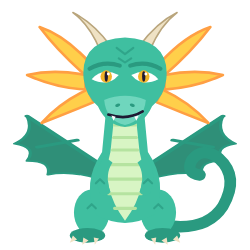
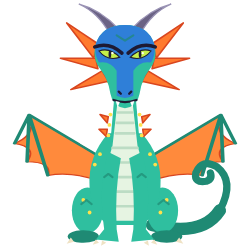
Redraw Glory front-facing in the book style
Long neck, narrow wedge head with a blue face, stern slanted eyes under heavy
brows, swept-back horns, orange ruff and wings, yellow speckles. Venom and grin
anchors follow the new mouth.

diff --git a/prototype/themes/dragon.js b/prototype/themes/dragon.js
@@ -5,8 +5,15 @@
 
   const sparkle = 'M0-11Q2-2 11 0Q2 2 0 11Q-2 2-11 0Q-2-2 0-11Z';
 
-  // Drawn in the style of the graphic novels rather than as a baby dragon: horned head on a
-  // neck, narrow slit-pupil eyes under brow ridges, pointed ruff, long prehensile tail.
+  // Drawn after the book art rather than as a baby dragon, facing us: long neck, wedge head
+  // with a blue face, stern slanted eyes under heavy brows, swept-back horns, orange ruff and
+  // wings, yellow speckles, and a curled prehensile tail.
+  const spots = [
+    [100, 68], [104, 78], [140, 68], [136, 78], [106, 110], [105, 120], [104, 130], [134, 110],
+    [135, 120], [136, 130], [96, 148], [91, 158], [144, 148], [149, 158], [80, 192], [86, 204],
+    [160, 192], [154, 204],
+  ].map(([x, y]) => `<circle cx="${x}" cy="${y}" r="1.8"/>`).join('');
+
   const character = `
 <svg viewBox="0 0 240 240" aria-label="Glory">
   <g class="sparkles">
@@ -18,100 +25,108 @@
 
   <g class="body-all">
     <g class="wings-folded">
-      <path class="wing" d="M100 146 L66 92 Q60 124 50 150 Q60 176 84 190 L102 172 Z"/>
-      <path class="wing" d="M140 146 L174 92 Q180 124 190 150 Q180 176 156 190 L138 172 Z"/>
-      <path class="wing-bone" d="M100 146 L66 92 M140 146 L174 92"/>
+      <path class="membrane" d="M106 138 L70 90 Q62 124 50 150 Q58 176 82 194 L100 176 Z"/>
+      <path class="membrane" d="M134 138 L170 90 Q178 124 190 150 Q182 176 158 194 L140 176 Z"/>
+      <path class="wing-bone" d="M106 138 L70 90 L50 150 M70 90 L82 194 M134 138 L170 90 L190 150 M170 90 L158 194"/>
     </g>
     <g class="wings-open">
-      <path class="wing" d="M98 148 L26 62 Q34 94 14 110 Q36 116 26 140 Q50 140 46 164 Q68 156 96 172 Z"/>
-      <path class="wing" d="M142 148 L214 62 Q206 94 226 110 Q204 116 214 140 Q190 140 194 164 Q172 156 144 172 Z"/>
-      <path class="wing-bone" d="M98 148 L26 62 M142 148 L214 62 M74 104 L36 116 M166 104 L204 116"/>
+      <path class="membrane" d="M104 140 L28 58 Q36 92 14 108 Q36 114 26 140 Q50 140 46 164 Q68 156 96 174 Z"/>
+      <path class="membrane" d="M136 140 L212 58 Q204 92 226 108 Q204 114 214 140 Q190 140 194 164 Q172 156 144 174 Z"/>
+      <path class="wing-bone" d="M104 140 L28 58 M28 58 L14 108 M28 58 L26 140 M28 58 L46 164
+        M136 140 L212 58 M212 58 L226 108 M212 58 L214 140 M212 58 L194 164"/>
     </g>
 
-    <path class="tail" d="M146 214 Q196 226 214 198 Q230 170 210 152 Q194 140 184 154 Q178 166 192 168"/>
+    <path class="tail" d="M146 216 Q194 228 211 202"/>
+    <path class="tail tip" d="M211 202 Q226 174 208 160 Q194 152 188 166 Q186 176 198 174 Q204 172 202 166"/>
 
-    <ellipse class="scale" cx="88" cy="204" rx="17" ry="22"/>
-    <ellipse class="scale" cx="152" cy="204" rx="17" ry="22"/>
-    <path class="scale" d="M102 104 L98 146 Q78 176 92 206 Q120 222 148 206 Q162 176 142 146 L138 104 Z"/>
-    <path class="belly" d="M110 108 Q120 112 130 108 L134 146 Q144 180 120 212 Q96 180 106 146 Z"/>
-    <path class="belly-lines" d="M110 120 H130 M109 132 H131 M108 144 H132 M104 158 H136 M102 172 H138 M104 186 H136 M110 200 H130"/>
-    <ellipse class="scale-dark" cx="84" cy="226" rx="17" ry="7"/>
-    <ellipse class="scale-dark" cx="156" cy="226" rx="17" ry="7"/>
+    <ellipse class="scale" cx="84" cy="202" rx="15" ry="22"/>
+    <ellipse class="scale" cx="156" cy="202" rx="15" ry="22"/>
+    <ellipse class="scale-dark" cx="80" cy="227" rx="15" ry="6"/>
+    <ellipse class="scale-dark" cx="160" cy="227" rx="15" ry="6"/>
+    <path class="scale" d="M104 128 Q84 150 86 180 Q88 206 104 216 L136 216 Q152 206 154 180 Q156 150 136 128 Z"/>
+    <path class="scale" d="M110 90 L106 136 L134 136 L130 90 Z"/>
+    <path class="belly" d="M113 96 L127 96 L132 140 Q144 176 131 212 L109 212 Q96 176 108 140 Z"/>
+    <path class="belly-lines" d="M113 108 H127 M112 118 H128 M111 128 H129 M108 142 H132 M105 156 H135 M104 170 H136 M104 184 H136 M106 198 H134"/>
+    <g class="spikes">
+      <path d="M104 112 l-8 -2 l7 8 Z M103 124 l-8 0 l7 7 Z M136 112 l8 -2 l-7 8 Z M137 124 l8 0 l-7 7 Z"/>
+    </g>
+    <g class="spots">${spots}</g>
+
+    <path class="scale arm" d="M104 146 Q94 178 100 220 L92 230 L114 232 L112 220 Q110 182 116 152 Z"/>
+    <path class="scale arm arm-r" d="M136 146 Q146 178 140 220 L148 230 L126 232 L128 220 Q130 182 124 152 Z"/>
+    <path class="texture" d="M100 170 l4 -3 l4 3 M140 170 l-4 -3 l-4 3 M78 196 l5 -4 l5 4 M162 196 l-5 -4 l-5 4"/>
     <g class="claws">
-      <path d="M70 226 l-3 7 l7 -3Z M80 228 l-1 7 l6 -4Z M90 228 l1 7 l4 -6Z"/>
-      <path d="M170 226 l3 7 l-7 -3Z M160 228 l1 7 l-6 -4Z M150 228 l-1 7 l-4 -6Z"/>
+      <path d="M68 228 l-4 6 l7 -2 Z M92 230 l-3 5 l6 -2 Z M98 231 l-1 5 l5 -3 Z"/>
+      <path d="M172 228 l4 6 l-7 -2 Z"/>
+      <path class="arm-r" d="M148 230 l3 5 l-6 -2 Z M142 231 l1 5 l-5 -3 Z"/>
     </g>
-    <path class="scale arm" d="M100 150 Q88 166 96 186 Q102 190 106 184 Q100 168 108 156 Z"/>
-    <path class="scale arm arm-r" d="M140 150 Q152 166 144 186 Q138 190 134 184 Q140 168 132 156 Z"/>
-    <path class="texture" d="M92 176 l4 -4 l4 4 M146 176 l-4 -4 l-4 4 M84 200 l4 -4 l4 4 M156 200 l-4 -4 l-4 4"/>
 
     <g class="frills">
-      <path d="M86 60 Q62 34 38 26 Q56 50 84 74 Z"/>
-      <path d="M82 72 Q52 66 26 72 Q52 84 82 86 Z"/>
-      <path d="M84 86 Q58 98 40 118 Q66 108 90 98 Z"/>
-      <path d="M154 60 Q178 34 202 26 Q184 50 156 74 Z"/>
-      <path d="M158 72 Q188 66 214 72 Q188 84 158 86 Z"/>
-      <path d="M156 86 Q182 98 200 118 Q174 108 150 98 Z"/>
+      <path d="M94 42 L64 22 L90 56 Z"/>
+      <path d="M92 56 L58 56 L94 66 Z"/>
+      <path d="M98 68 L68 86 L104 78 Z"/>
+      <path d="M146 42 L176 22 L150 56 Z"/>
+      <path d="M148 56 L182 56 L146 66 Z"/>
+      <path d="M142 68 L172 86 L136 78 Z"/>
     </g>
     <g class="horns">
-      <path d="M96 48 Q86 24 70 12 Q90 22 106 44 Z"/>
-      <path d="M144 48 Q154 24 170 12 Q150 22 134 44 Z"/>
+      <path d="M105 32 Q94 12 76 4 Q96 9 114 28 Z"/>
+      <path d="M135 32 Q146 12 164 4 Q144 9 126 28 Z"/>
     </g>
 
-    <path class="scale" d="M80 70 Q80 38 120 36 Q160 38 160 70 Q160 90 146 102 Q138 120 120 122 Q102 120 94 102 Q80 90 80 70 Z"/>
-    <path class="snout" d="M100 96 Q120 88 140 96 Q138 116 120 120 Q102 116 100 96 Z"/>
-    <path class="texture" d="M112 46 l8 6 l8 -6 M114 56 l6 4 l6 -4"/>
-    <ellipse class="scale-dark" cx="113" cy="101" rx="2.5" ry="1.5" transform="rotate(-20 113 101)"/>
-    <ellipse class="scale-dark" cx="127" cy="101" rx="2.5" ry="1.5" transform="rotate(20 127 101)"/>
+    <path class="scale" d="M120 24 Q142 24 148 42 Q152 56 144 66 Q136 76 134 90 Q132 102 120 104 Q108 102 106 90 Q104 76 96 66 Q88 56 92 42 Q98 24 120 24 Z"/>
+    <path class="face" d="M120 24 Q142 24 148 42 Q150 52 145 60 Q134 58 128 68 L128 92 Q120 96 112 92 L112 68 Q106 58 95 60 Q90 52 92 42 Q98 24 120 24 Z"/>
+    <path class="texture" d="M112 34 l8 5 l8 -5"/>
+    <path class="line thin" d="M114 88 l2 2 M126 88 l-2 2"/>
 
     <g class="eyes-open">
-      <path class="eye-white" d="M88 76 Q98 64 114 72 Q104 84 88 76 Z"/>
-      <path class="eye-white" d="M152 76 Q142 64 126 72 Q136 84 152 76 Z"/>
-      <ellipse class="iris" cx="102" cy="73.5" rx="5.5" ry="6"/>
-      <ellipse class="iris" cx="138" cy="73.5" rx="5.5" ry="6"/>
-      <ellipse class="pupil" cx="102" cy="73.5" rx="1.6" ry="5"/>
-      <ellipse class="pupil" cx="138" cy="73.5" rx="1.6" ry="5"/>
-      <circle class="glint" cx="104" cy="71" r="1.4"/>
-      <circle class="glint" cx="140" cy="71" r="1.4"/>
+      <path class="iris" d="M95 49 Q105 45 115 55 Q103 59 95 49 Z"/>
+      <path class="iris" d="M145 49 Q135 45 125 55 Q137 59 145 49 Z"/>
+      <ellipse class="pupil" cx="105.5" cy="52" rx="1.3" ry="3.6"/>
+      <ellipse class="pupil" cx="134.5" cy="52" rx="1.3" ry="3.6"/>
+      <circle class="glint" cx="108" cy="51" r="1.1"/>
+      <circle class="glint" cx="137" cy="51" r="1.1"/>
     </g>
-    <g class="eyes-closed line">
-      <path d="M88 76 Q100 80 114 74"/>
-      <path d="M152 76 Q140 80 126 74"/>
+    <g class="eyes-closed line thin">
+      <path d="M95 50 Q105 56 115 55"/>
+      <path d="M145 50 Q135 56 125 55"/>
     </g>
-    <g class="eyes-happy line">
-      <path d="M88 78 Q100 68 114 76"/>
-      <path d="M152 78 Q140 68 126 76"/>
+    <g class="eyes-happy line thin">
+      <path d="M95 52 Q105 46 115 54"/>
+      <path d="M145 52 Q135 46 125 54"/>
     </g>
-    <path class="brow" d="M86 66 Q100 58 115 63 M154 66 Q140 58 125 63"/>
+    <path class="brow" d="M91 45 Q105 40 117 51 M149 45 Q135 40 123 51"/>
 
     <g class="mouth">
-      <path class="line thin" d="M104 110 Q122 116 137 107"/>
-      <path class="fang" d="M107 111 l2 5 l2 -4 Z"/>
-      <path class="fang" d="M129 112 l2 4 l2 -5 Z"/>
+      <path class="line thin" d="M109 96 Q120 100 131 96"/>
+      <path class="fang" d="M111 97 l2 6 l2 -5 Z"/>
+      <path class="fang" d="M125 98 l2 5 l2 -6 Z"/>
     </g>
     <g class="mouth-grin">
-      <path class="mouth-inside" d="M100 106 Q120 124 140 106 Q120 112 100 106 Z"/>
-      <path class="fang" d="M103 107 Q120 112 137 107 L135 111 Q120 116 105 111 Z"/>
+      <path class="mouth-inside" d="M106 93 Q120 110 134 93 Q120 99 106 93 Z"/>
+      <path class="fang" d="M108 94 Q120 99 132 94 L130 98 Q120 103 110 98 Z"/>
     </g>
     <g class="mouth-spit">
-      <ellipse class="mouth-inside" cx="120" cy="112" rx="9" ry="7"/>
-      <path class="fang" d="M113 106 l2 6 l2 -5 Z"/>
-      <path class="fang" d="M123 107 l2 5 l2 -6 Z"/>
-      <circle cx="120" cy="114" r="3.5" fill="#1b1426" stroke="#5dd94a" stroke-width="1.5"/>
+      <ellipse class="mouth-inside" cx="120" cy="99" rx="9" ry="7"/>
+      <path class="fang" d="M113 93 l2 6 l2 -5 Z"/>
+      <path class="fang" d="M123 94 l2 5 l2 -6 Z"/>
+      <circle cx="120" cy="101" r="3.5" fill="#1b1426" stroke="#5dd94a" stroke-width="1.5"/>
     </g>
 
     <g class="foam">
-      <circle cx="102" cy="118" r="4"/>
-      <circle cx="95"  cy="112" r="3"/>
-      <circle cx="108" cy="124" r="2.5"/>
-      <circle cx="140" cy="119" r="3.5"/>
+      <circle cx="104" cy="102" r="4"/>
+      <circle cx="98" cy="95" r="3"/>
+      <circle cx="110" cy="108" r="2.5"/>
+      <circle cx="137" cy="103" r="3.5"/>
     </g>
     <g class="brush">
-      <path class="arm-brush" d="M138 154 Q170 150 182 118"/>
-      <rect class="brush-handle" x="126" y="106" width="60" height="8" rx="4"/>
-      <rect class="brush-head" x="110" y="103" width="22" height="13" rx="4"/>
-      <rect class="bristles" x="112" y="97" width="18" height="7" rx="2"/>
-      <circle class="scale" cx="184" cy="112" r="8"/>
+      <path class="arm-brush-edge" d="M134 152 Q164 140 156 104"/>
+      <path class="arm-brush" d="M134 152 Q164 140 156 104"/>
+      <rect class="brush-handle" x="126" y="93" width="30" height="7" rx="3.5"/>
+      <rect class="brush-head" x="106" y="91" width="22" height="11" rx="3.5"/>
+      <rect class="bristles" x="108" y="86" width="18" height="6" rx="2"/>
+      <circle class="hand" cx="156" cy="97" r="7"/>
+      <path class="claws" d="M150 92 l-4 -1 l3 4 Z M149 99 l-4 1 l4 3 Z"/>
     </g>
   </g>
 
@@ -182,16 +197,16 @@
   };
 
   // RainWing rainbow: 5 scale palettes cycled by the "rainbow" trick
-  const RAINBOW = [
-    ['#ff5a6e', '#d93a50', '#ff8a98', '#ffe3e7', '#ffc2ca', '#ffd23f', '#ff9f43', '#c93a4e'],
-    ['#ff9a3c', '#e07a1f', '#ffb870', '#fff0dc', '#ffd9b0', '#ff5a6e', '#ffd23f', '#d0741f'],
-    ['#ffd23f', '#e0b21f', '#ffe27a', '#fffbe0', '#fff0a8', '#3fbfa0', '#ff9a3c', '#d0a81f'],
-    ['#4aa8ff', '#2f86dd', '#86c4ff', '#e3f1ff', '#bcdcff', '#ffd23f', '#a66bff', '#2f78c9'],
-    ['#a66bff', '#844ddd', '#c49bff', '#f0e6ff', '#dcc8ff', '#7ce3ff', '#ff7ac2', '#7a44c9'],
+  const RAINBOW = [ // scale, dark, face, belly, belly line, frill, frill edge, wing membrane
+    ['#ff5a6e', '#d93a50', '#b82a5a', '#ffe3e7', '#ffc2ca', '#ffd23f', '#ff9f43', '#ffb03f'],
+    ['#ff9a3c', '#e07a1f', '#d9462a', '#fff0dc', '#ffd9b0', '#ff5a6e', '#d93a50', '#ffd23f'],
+    ['#ffd23f', '#e0b21f', '#ff8a2e', '#fffbe0', '#fff0a8', '#3fbfa0', '#2a9a80', '#ff9a3c'],
+    ['#4aa8ff', '#2f86dd', '#2f55c8', '#e3f1ff', '#bcdcff', '#ffd23f', '#ff9f43', '#a66bff'],
+    ['#a66bff', '#844ddd', '#5e3cc8', '#f0e6ff', '#dcc8ff', '#7ce3ff', '#3fb0d8', '#ff7ac2'],
   ];
-  const rainbowCss = RAINBOW.map(([sc, dark, snout, belly, line, frill, frill2, wing], i) =>
-    `.theme-dragon .character.rainbow-${i + 1} { --scale: ${sc}; --scale-dark: ${dark}; --snout: ${snout}; --belly: ${belly};
-      --belly-line: ${line}; --frill: ${frill}; --frill-2: ${frill2}; --wing: ${wing}; }`).join('\n');
+  const rainbowCss = RAINBOW.map(([sc, dark, face, belly, line, frill, frill2, membrane], i) =>
+    `.theme-dragon .character.rainbow-${i + 1} { --scale: ${sc}; --scale-dark: ${dark}; --face: ${face}; --belly: ${belly};
+      --belly-line: ${line}; --frill: ${frill}; --frill-2: ${frill2}; --membrane: ${membrane}; --spots: ${belly}; }`).join('\n');
 
   // Treasure gem (dragons love treasure)
   const reward = `<svg viewBox="0 0 24 24">
@@ -220,8 +235,8 @@
     germParticles: BUGS.map((b) => [b.color, '#1b1426', '#5dd94a']), // melted by venom
     pop: 'venom',                // Glory spits venom at each bug (RainWings don't breathe fire)
     tricks: ['rainbow', 'fly'],  // theme-only tricks
-    teeth: [125, 116],           // in the 250x250 buddy box
-    mouth: [125, 118],
+    teeth: [125, 101],           // in the 250x250 buddy box
+    mouth: [125, 104],
     sprites,
     reward,
 
@@ -254,41 +269,45 @@ ${T} .t-bravo {
 
 /* Scale colours by mood (RainWing!) */
 ${T} .character {
-  --scale: #3fbfa0; --scale-dark: #2a9a80; --snout: #6fd6bd; --belly: #d8f5c4; --belly-line: #b5e3a0;
-  --frill: #ffcf4a; --frill-2: #ff9f43; --wing: #2f8f78; --iris: #f0b429; --ink: #1e1a33;
+  --scale: #2fbf9f; --scale-dark: #1f8a74; --face: #2f7fd8; --belly: #e6f4e2; --belly-line: #bcdcc4;
+  --frill: #ff7a2e; --frill-2: #d9461f; --membrane: #ff8a3c; --spots: #ffe14d;
+  --horn: #6b6385; --claw: #efe2c4; --iris: #c6f04a; --ink: #1e1a33;
 }
 ${T} .character.mood-sleepy {
-  --scale: #8a8fe0; --scale-dark: #6c70c4; --snout: #a9adf2; --belly: #e4e2ff; --belly-line: #c9c6f5;
-  --frill: #c3b5ff; --frill-2: #9a8cf0; --wing: #6a6ec0;
+  --scale: #8a8fe0; --scale-dark: #6c70c4; --face: #6a5fc8; --belly: #e4e2ff; --belly-line: #c9c6f5;
+  --frill: #c3b5ff; --frill-2: #9a8cf0; --membrane: #b7a6ff; --spots: #e6e0ff;
 }
 ${T} .character.mood-cheer {
-  --scale: #ff7ac2; --scale-dark: #e0559f; --snout: #ff9fd3; --belly: #ffe3f1; --belly-line: #ffc2df;
-  --frill: #ffe066; --frill-2: #7ce3ff; --wing: #d94d96;
+  --scale: #ff7ac2; --scale-dark: #e0559f; --face: #a65be0; --belly: #ffe3f1; --belly-line: #ffc2df;
+  --frill: #ffe066; --frill-2: #ffb020; --membrane: #ffd23f; --spots: #fff3a0;
 }
 
 ${T} .scale      { fill: var(--scale); }
 ${T} .scale-dark { fill: var(--scale-dark); }
-${T} .snout      { fill: var(--snout); }
+${T} .face       { fill: var(--face); }
 ${T} .belly      { fill: var(--belly); }
-${T} .belly-lines { fill: none; stroke: var(--belly-line); stroke-width: 3; stroke-linecap: round; }
-${T} .tail       { fill: none; stroke: var(--scale-dark); stroke-width: 11; stroke-linecap: round; }
-${T} .wing       { fill: var(--wing); stroke: var(--scale-dark); stroke-width: 3; stroke-linejoin: round; }
-${T} .wing-bone  { fill: none; stroke: var(--scale-dark); stroke-width: 5; stroke-linecap: round; }
-${T} .frills path { fill: var(--frill); stroke: var(--frill-2); stroke-width: 2.5; stroke-linejoin: round; }
-${T} .horns      { fill: #efe2c4; stroke: #b9a57c; stroke-width: 1.5; stroke-linejoin: round; }
+${T} .belly-lines { fill: none; stroke: var(--belly-line); stroke-width: 2.5; stroke-linecap: round; }
+${T} .spots      { fill: var(--spots); }
+${T} .tail       { fill: none; stroke: var(--scale-dark); stroke-width: 12; stroke-linecap: round; }
+${T} .tail.tip   { stroke-width: 7; }
+${T} .membrane   { fill: var(--membrane); stroke: var(--frill-2); stroke-width: 2; stroke-linejoin: round; }
+${T} .wing-bone  { fill: none; stroke: var(--scale-dark); stroke-width: 3.5; stroke-linecap: round; stroke-linejoin: round; }
+${T} .frills path, ${T} .spikes { fill: var(--frill); stroke: var(--frill-2); stroke-width: 1.5; stroke-linejoin: round; }
+${T} .horns      { fill: var(--horn); stroke: #9a93b5; stroke-width: 1.2; stroke-linejoin: round; }
 ${T} .texture    { fill: none; stroke: var(--scale-dark); stroke-width: 2; stroke-linecap: round; stroke-linejoin: round; opacity: .7; }
-${T} .brow       { fill: none; stroke: var(--scale-dark); stroke-width: 4; stroke-linecap: round; }
+${T} .brow       { fill: none; stroke: var(--ink); stroke-width: 3.5; stroke-linecap: round; }
 ${T} .glint      { fill: #fff; }
-${T} .claws      { fill: #efe2c4; }
-${T} .eye-white  { fill: #fff; }
-${T} .iris       { fill: var(--iris); }
+${T} .claws      { fill: var(--claw); }
+${T} .hand       { fill: var(--scale); stroke: var(--scale-dark); stroke-width: 2; }
+${T} .iris       { fill: var(--iris); stroke: var(--ink); stroke-width: 1; }
 ${T} .pupil      { fill: var(--ink); }
 ${T} .line       { fill: none; stroke: var(--ink); stroke-width: 3.5; stroke-linecap: round; }
-${T} .line.thin  { stroke-width: 2.5; }
+${T} .line.thin  { stroke-width: 2.2; }
 ${T} .fang       { fill: #fff; }
 ${T} .mouth-inside { fill: #4a1f3d; }
 ${T} .foam       { fill: #fff; opacity: .9; }
-${T} .arm-brush  { fill: none; stroke: var(--scale); stroke-width: 11; stroke-linecap: round; }
+${T} .arm-brush-edge { fill: none; stroke: var(--scale-dark); stroke-width: 13; stroke-linecap: round; }
+${T} .arm-brush  { fill: none; stroke: var(--scale); stroke-width: 9; stroke-linecap: round; }
 ${T} .brush-handle { fill: #4fc3f7; }
 ${T} .brush-head   { fill: #fff; }
 ${T} .bristles     { fill: #c8f0ff; }
@@ -304,7 +323,7 @@ ${T} .body-all, ${T} .eyes-open, ${T} .brush, ${T} .foam, ${T} .sparkles path, $
 }
 ${T} .body-all { transform-origin: 50% 100%; }
 
-${T} .mood-idle .body-all  { animation: rw-bob 2s ease-in-out infinite; }
+${T} .mood-idle .body-all  { animation: rw-bob 3s ease-in-out infinite; }
 ${T} .mood-idle .eyes-open { animation: rw-blink 4s infinite; }
 
 ${T} .mood-sleepy .eyes-open   { display: none; }
@@ -322,8 +341,8 @@ ${T} .mood-brushing .foam  { animation: rw-foam .5s ease-in-out infinite alterna
 ${T} .mood-brushing .body-all  { animation: rw-wiggle .56s ease-in-out infinite alternate; }
 ${T} .mood-brushing .eyes-open { animation: rw-blink 3s infinite; }
 
-${T} .mood-cheer .eyes-open, ${T} .mood-cheer .wings-folded { display: none; }
-${T} .mood-cheer .eyes-happy, ${T} .mood-cheer .sparkles, ${T} .mood-cheer .wings-open { display: inline; }
+${T} .mood-cheer .wings-folded { display: none; }
+${T} .mood-cheer .sparkles, ${T} .mood-cheer .wings-open { display: inline; }
 ${T} .mood-cheer .body-all { animation: rw-jump .7s ease-in-out infinite; }
 ${T} .mood-cheer .sparkles path { animation: rw-twinkle 1s ease-in-out infinite alternate; }
 ${T} .mood-cheer .sparkles path:nth-child(2) { animation-delay: .3s; }
@@ -347,7 +366,7 @@ ${T} .trick-fly.flap .wings-open { transform: scaleY(.55); }
 
 ${rainbowCss}
 
-@keyframes rw-bob     { 50% { transform: translateY(-5px); } }
+@keyframes rw-bob     { 50% { transform: translateY(-3px); } }
 @keyframes rw-blink   { 0%, 93%, 100% { transform: scaleY(1); } 96% { transform: scaleY(.1); } }
 @keyframes rw-breathe { 50% { transform: scale(1.03, .98); } }
 @keyframes rw-zzz     { 0% { opacity: 0; transform: translateY(6px); } 50% { opacity: 1; } 100% { opacity: 0; transform: translateY(-10px); } }

diff --git a/device/ui/themes/dragon.c b/device/ui/themes/dragon.c
@@ -13,8 +13,8 @@ const brushy_theme_t brushy_theme_dragon = {
     .pop_whoosh = true,
     .pop = BRUSHY_POP_VENOM,
     .tricks = BRUSHY_TRICK_RAINBOW | BRUSHY_TRICK_FLY,
-    .teeth_x = 125, .teeth_y = 116,
-    .mouth_x = 125, .mouth_y = 118,
+    .teeth_x = 125, .teeth_y = 101,
+    .mouth_x = 125, .mouth_y = 104,
     .germ_particles = { /* jungle bugs melted by venom */
         {0x8a5cff, 0x1b1426, 0x5dd94a},
         {0xff5fa2, 0x1b1426, 0x5dd94a},
